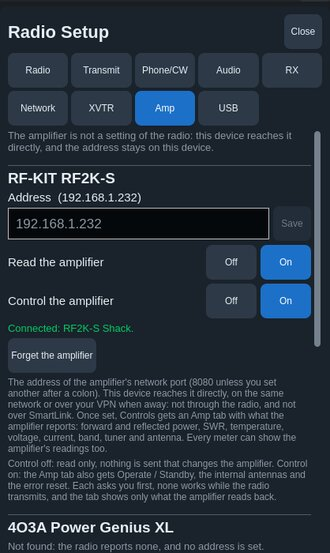
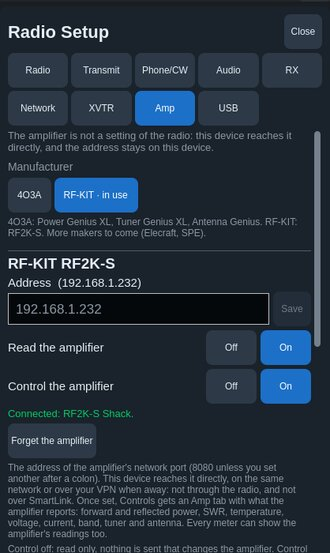
mobile: build 157 / Android beta 70 notes, roadmap and pictures
TestFlight notes (3966 characters) and Android beta 70 notes: Android
symbols, eSSB's de-esser / tube / EVO / reverb and order, Radio Setup ›
Amp by manufacturer, first-run hints, felt slider drags and the Felt
taps switch, build 156's screen reader tuning taken out. release.env
android-beta-70; the roadmap's build 157 entry; tab-view, tab-essb and
setup-amp re-rendered on the FLEX.

Render sweep, 27 sizes: 0 QML warnings, 0 radio full, the layout the
same as build 156's sweep (the known landscape info-row cuts unchanged).
Focus sweep: 0 controls kept the keyboard.

Notes: changed
Manual: unchanged (with each change)
Roadmap: changed
Screenshots: changed
iOS: changed
Android: changed

Claude-Session: https://claude.ai/code/session_01KANojkzU64KoozGDbNDzRK

diff --git a/mobile/ROADMAP.md b/mobile/ROADMAP.md
@@ -5,6 +5,8 @@ queued, waiting on someone, or still to verify follows.
 
 ## Next build
 
+Build 157 / beta 70 (the user, 2026-11-05: "1,2,11,20,26" from the numbered roadmap, after the screen reader test of build 156): **26** Android symbols: Noto Sans Symbols 2 and Noto Sans Math subsets bundled (SIL OFL, mobile/fonts) and registered as fallbacks, tested with fontconfig limited to Noto Sans (boxes for ⇄ ⌥ ⋯ without, all drawn with; the startup check "missing: none"). **1** Felt taps: a FineSlider's drag ticks (each step up to 20 steps, else each tenth and the ends, 40 ms apart) and View › Felt taps (phones) off / on. **2** First-run hints: four cards once after the first connect (waiting while the setup offer or any panel is open), View › Hints › Show again; tested by taps through all four, the next connect without them, Show again and Skip, the page keyboard back each time. **11** Radio Setup › Amp by manufacturer: 4O3A / RF-KIT row, a maker in use always shown and first; tested with the RF2K-S stand-in. **20** eSSB: De-ess, Tube, EVO, Reverb and the chain's Order (Change: ▲ / ▼ per stage), on the engine's existing chain; tested by taps (Tube, model, EVO, order up and back), put back after. Also build 156's screen reader tuning and notices taken out (the user: too unfinished). Focus sweep: 0 controls kept the keyboard (1366x1024 all sections pinned, 430x932 every drawer tab). To verify on devices: the symbols on the OnePlus, the ticks on a phone, eSSB's sound with MON at low power.
+
 Build 156 / beta 69 (the user, 2026-11-05: Tyler Akerman K0OTC's two e-mails, "Laitetaan tylerin toiveet seuraavaan buildiin", then for the screen reader "Tähän buildiin 1 ja 4, PuJu"): **Band plan lock** (Tyler asked for the mode to follow the band plan with a switch; the user: the plan's modes as defaults that a chosen mode overrides, then, after Tyler answered that a switch the user turns off for contests is easiest, "a simple switch that always chooses", clear, easy to find and recognise, the modes limited by the plan and a notice when another is tried): in the mode chooser and View; PLAN by the mode (under it on a phone, the row's width kept; a tap turns it off). Tuning into another part of the plan below 30 MHz sets CW (CW part) or LSB under 10 MHz / USB above and on 60 m (phone or all-mode part), from any mode; a CW part allows CW, a phone part the voice modes (DIGU / DIGL with RADE on), an all-mode part any mode (FT8 on 7.074 in Region 1 stays DIGU), data / beacon / mixed parts any mode and set none; a refused choice or a spot's or memory's mode the part does not use gives a notice and the part's mode. Two earlier designs were built and tested on the FLEX first and dropped by the user: a hand-chosen mode remembered per part (a weekend's CW contest would leave the whole band CW), and a hold on the band. **CW sidetone level** (Tyler: the CW tones too loud with the volume up): Sidetone On and level on the CW tab (the radio's sidetone and mon_gain_cw, which the local sidetone plays at). **Screen reader tuning** (usability plan, Build C): the frequency is an adjustable control for VoiceOver / TalkBack (a swipe up or down tunes one step, the new frequency read; a double tap opens entry), and the mode and transmit on / off are announced. Tested on the FLEX: --mode-plan-test 26 steps on ARRL (US) and IARU Region 1; --echo-audit-only cwSidetone; --a11y-tune-test (new: the frequency's accessible role Slider, value in kHz, increase twice and decrease once each one step on 390x844 and 1180x820); rendered with the lock on at 390x844, 844x390, 320x693, 1180x820; state put back each time (the CW monitor level a test left at 85 put back to 80 with the new --engine-set). To verify: the lock on a tester's ARRL plan. VoiceOver / TalkBack tried by the user on the iPad and the OnePlus: not usable yet (see Later: Screen readers).
 
 Build 155 / beta 68 (the user, 2026-11-05: the overnight watch's findings, then "Suunnattu FT8-CQ, B/S, Android: suurin näytön koko, tabletin ja Macin tekstikoko", and after the morning's phone tests the DX cluster backoff and the iOS device ID; "Kun olet saanut kaikki valmiiksi tee PuJu"): **iOS Display Zoom** (Evgeny R0ACS, iPhone 15 Pro, Larger Text: the app ran past the right edge): an iPhone 12-17 is 320 pt wide in Display Zoom, under the phone layout's least width (about 372); below 375 pt the app is laid out at 375 and drawn scaled (QT_SCALE_FACTOR before the app starts), rendered at 320x693 against the FLEX; Android needs none (the OnePlus Open's outer screen at its largest Display size fits, devlink pictures of both screens both ways). **Radio Setup at a large text size** (Ben Morris, Evgeny): an unwrapped label set a tab's least width, past the scroll bar; Level, TextSetting and Info labels wrap, every tab fits at 375 and 393 pt at 135 %; the description scrolls with the settings; the amplifier's description back on the Amp tab (index 7, it showed on XVTR). **B/S** (Michael Walker): hidden rows give it an amber frame and ▲. **A directed CQ** (Kurt DL5EAG): FTx settings › CQ to, All / DX / NA / EU / own (1-4 letters or 3 digits), the CQ button reads CQ DX; --ft8-test selftest: CQ DX / NA / POTA / 123 through our encoder and decoder in FT8 and FT4; a dry run against the radio (the user's nonstandard call sends it plain, as WSJT-X). **Bigger type on big screens** (the usability review): the scale grows faster above the 11" iPad (13" 1.14, external up to 1.3) and the panels' text follows (Theme.bigScale); the pinned panel widens where the window has room; sweep against the same code before: phones, foldables, 11" iPad unchanged, no layout decision changed. **All station slots taken** (the user's iPad with both slots held by the user's two phones: "multiFLEX is off", no question): the refusal says so and asks which station to disconnect, then connects again (tested to the question against the radio). **Two devices of one owner** (the user's two Android phones threw each other off every 10-30 s, evicting each other as a stale session of the same GUI client ID): the ID's machine binding was "localhost|linux|arm64" on every phone, so a phone set up from another's backup kept the ID; Android binds to ANDROID_ID, iOS to identifierForVendor (AppSettings::setDeviceBinding); the first start rotates the ID once. **DX cluster**: the backoff starts over only after a 2-minute session, and two logins closed at once say the call is probably logged in elsewhere (an SSID, e.g. OH6OKSA-2); tested against a stand-in that closes each login. **An idle PGXL 0 W** (Ben's log: 30 dBm at rest). Open: the Connect page's polish loop on the OnePlus's outer screen right after its Display size went to the largest (the UI stood still ~40 s, the connection with it); not reproduced since on the phone or the desktop. To verify: Display Zoom on an iPhone; the iOS device ID and the Android one on the user's two phones together; the big-screen type on a Mac (the iPad app drawn at 77 %).

diff --git a/mobile/android/RELEASE_NOTES.md b/mobile/android/RELEASE_NOTES.md
@@ -1,6 +1,14 @@
-**OksaSDR for Android — beta 69.** A FlexRadio client for Android phones and tablets, built on the [AetherSDR](https://github.com/aethersdr/AetherSDR) engine: the same app as on the iPhone and iPad (TestFlight), from the same code.
+**OksaSDR for Android — beta 70.** A FlexRadio client for Android phones and tablets, built on the [AetherSDR](https://github.com/aethersdr/AetherSDR) engine: the same app as on the iPhone and iPad (TestFlight), from the same code.
 
-### New in beta 69
+### New in beta 70
+- **Symbols no longer show as boxes** (the developer's OnePlus: the saved radio's edit button was an empty box, so where to edit the address was not clear): Android's own symbol font lacks ✎ ✕ ⌥ ⇄ and others. The app now carries small subsets of Noto Sans Symbols 2 and Noto Sans Math (SIL OFL) and uses them where the system's fonts have no symbol.
+- **eSSB: the rest of the desktop's TX chain**: each off until turned on, **De-ess** (tames the S sounds: threshold and band 4-7 kHz), **Tube** (warm saturation: drive, model A / B / C, mix), **EVO** (the exciter: *Air* for high harmonics, *Bass* for the low end, *Even* / *Odd*) and **Reverb** (mix, decay). **Order** shows the order the microphone goes through the stages; **Change** moves each up or down. Check the sound with MON or a second receiver at low power.
+- **Radio Setup › Amp by manufacturer**: tap **4O3A** (Power Genius XL, Tuner Genius XL, Antenna Genius) or **RF-KIT** (RF2K-S) to show its devices; a maker with a device set up reads *· in use*, always shows and comes first. Elecraft and SPE are planned.
+- **First-run hints**: four short cards after the first connect show the gestures nothing on screen shows (the hold for a notch, the dBm scale and divider drags, the slice and SPLIT holds, the frequency tap and memory holds). **Controls › View › Hints › Show again** brings them back.
+- **Felt taps**: a slider's drag is felt too (each step on a short scale, else each tenth and the ends); **Controls › View › Felt taps** turns all felt taps off in this app.
+- **TalkBack tuning taken out again**: beta 69's frequency tuning by the screen reader and its spoken notices trapped the reader in dialogs and panels (the developer's test on the phone and the iPad). The controls keep their names; proper screen reader support is planned.
+
+### Still new from beta 69
 - **Band plan lock** (thanks Tyler K0OTC, who asked for the mode to follow the band plan, and agreed a switch is best for contests): tap the mode by the frequency and turn **Band plan lock** on (also in **Controls › View**). Tuning into another part of the band plan below 30 MHz then sets its mode: **CW** in a CW part, **LSB** below 10 MHz and **USB** above (and on 60 m) in a phone or all-mode part, e.g. 14.250 USB, then 7.210 LSB; a digital mode tuned into a CW or phone part takes the part's mode. A CW part allows only CW, a phone part the voice modes (DIGU / DIGL with RADE on); other modes are dimmed in the mode chooser and refused with a notice, and a spot's or memory's mode the part does not use is replaced. An all-mode part (IARU's ALL) sets the sideband but allows any mode, so FT8 on 7.074 stays DIGU. **PLAN** by the mode (under it on a phone) shows the lock is on; a tap on PLAN turns it off, e.g. for a contest that uses the whole band. It uses the band plan chosen in Controls › View (pick *ARRL (US)*, *IARU Region 1* … there).
 - **CW sidetone level** (thanks Tyler K0OTC: the CW tones were very loud with the volume up for weak stations): the CW tab has **Sidetone**, *On* and its own level, under Pitch; the radio's sidetone and the one on this device follow it, apart from the receive volume.
 - **TalkBack tuning**: the frequency is an adjustable control: the volume keys (or TalkBack's adjust gesture) on it tune one step (the STEP setting) and the new frequency is read; a double tap opens frequency entry. The mode changing and transmit starting and ending are spoken.
